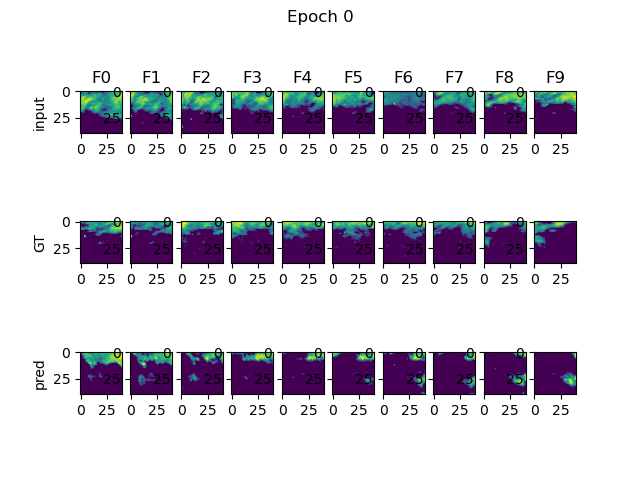
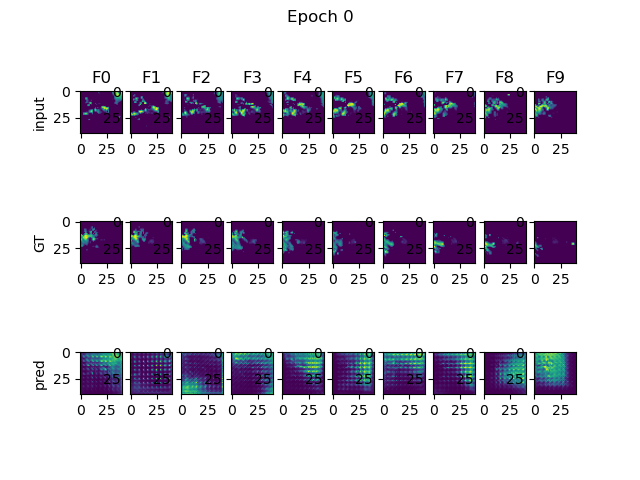
vit discriminator

Changed region(s): [[0.125, 0.7188, 0.9062, 0.8438], [0.125, 0.4375, 0.875, 0.5312], [0.125, 0.1875, 0.9062, 0.25]]

diff --git a/gan/models/simvp_dgan/vit/cct.py b/gan/models/simvp_dgan/vit/cct.py
@@ -1,0 +1,346 @@
+import torch
+import torch.nn as nn
+import torch.nn.functional as F
+
+# helpers
+
+def pair(t):
+    return t if isinstance(t, tuple) else (t, t)
+
+# CCT Models
+
+__all__ = ['cct_2', 'cct_4', 'cct_6', 'cct_7', 'cct_8', 'cct_14', 'cct_16']
+
+
+def cct_2(*args, **kwargs):
+    return _cct(num_layers=2, num_heads=2, mlp_ratio=1, embedding_dim=128,
+                *args, **kwargs)
+
+
+def cct_4(*args, **kwargs):
+    return _cct(num_layers=4, num_heads=2, mlp_ratio=1, embedding_dim=128,
+                *args, **kwargs)
+
+
+def cct_6(*args, **kwargs):
+    return _cct(num_layers=6, num_heads=4, mlp_ratio=2, embedding_dim=256,
+                *args, **kwargs)
+
+
+def cct_7(*args, **kwargs):
+    return _cct(num_layers=7, num_heads=4, mlp_ratio=2, embedding_dim=256,
+                *args, **kwargs)
+
+
+def cct_8(*args, **kwargs):
+    return _cct(num_layers=8, num_heads=4, mlp_ratio=2, embedding_dim=256,
+                *args, **kwargs)
+
+
+def cct_14(*args, **kwargs):
+    return _cct(num_layers=14, num_heads=6, mlp_ratio=3, embedding_dim=384,
+                *args, **kwargs)
+
+
+def cct_16(*args, **kwargs):
+    return _cct(num_layers=16, num_heads=6, mlp_ratio=3, embedding_dim=384,
+                *args, **kwargs)
+
+
+def _cct(num_layers, num_heads, mlp_ratio, embedding_dim,
+         kernel_size=3, stride=None, padding=None,
+         *args, **kwargs):
+    stride = stride if stride is not None else max(1, (kernel_size // 2) - 1)
+    padding = padding if padding is not None else max(1, (kernel_size // 2))
+    return CCT(num_layers=num_layers,
+               num_heads=num_heads,
+               mlp_ratio=mlp_ratio,
+               embedding_dim=embedding_dim,
+               kernel_size=kernel_size,
+               stride=stride,
+               padding=padding,
+               *args, **kwargs)
+
+# modules
+
+class Attention(nn.Module):
+    def __init__(self, dim, num_heads=8, attention_dropout=0.1, projection_dropout=0.1):
+        super().__init__()
+        self.num_heads = num_heads
+        head_dim = dim // self.num_heads
+        self.scale = head_dim ** -0.5
+
+        self.qkv = nn.Linear(dim, dim * 3, bias=False)
+        self.attn_drop = nn.Dropout(attention_dropout)
+        self.proj = nn.Linear(dim, dim)
+        self.proj_drop = nn.Dropout(projection_dropout)
+
+    def forward(self, x):
+        B, N, C = x.shape
+        qkv = self.qkv(x).reshape(B, N, 3, self.num_heads, C // self.num_heads).permute(2, 0, 3, 1, 4)
+        q, k, v = qkv[0], qkv[1], qkv[2]
+
+        attn = (q @ k.transpose(-2, -1)) * self.scale
+        attn = attn.softmax(dim=-1)
+        attn = self.attn_drop(attn)
+
+        x = (attn @ v).transpose(1, 2).reshape(B, N, C)
+        x = self.proj(x)
+        x = self.proj_drop(x)
+        return x
+
+
+class TransformerEncoderLayer(nn.Module):
+    """
+    Inspired by torch.nn.TransformerEncoderLayer and
+    rwightman's timm package.
+    """
+    def __init__(self, d_model, nhead, dim_feedforward=2048, dropout=0.1,
+                 attention_dropout=0.1, drop_path_rate=0.1):
+        super(TransformerEncoderLayer, self).__init__()
+        self.pre_norm = nn.LayerNorm(d_model)
+        self.self_attn = Attention(dim=d_model, num_heads=nhead,
+                                   attention_dropout=attention_dropout, projection_dropout=dropout)
+
+        self.linear1  = nn.Linear(d_model, dim_feedforward)
+        self.dropout1 = nn.Dropout(dropout)
+        self.norm1    = nn.LayerNorm(d_model)
+        self.linear2  = nn.Linear(dim_feedforward, d_model)
+        self.dropout2 = nn.Dropout(dropout)
+
+        self.drop_path = DropPath(drop_path_rate) if drop_path_rate > 0 else nn.Identity()
+
+        self.activation = F.gelu
+
+    def forward(self, src: torch.Tensor, *args, **kwargs) -> torch.Tensor:
+        src = src + self.drop_path(self.self_attn(self.pre_norm(src)))
+        src = self.norm1(src)
+        src2 = self.linear2(self.dropout1(self.activation(self.linear1(src))))
+        src = src + self.drop_path(self.dropout2(src2))
+        return src
+
+
+def drop_path(x, drop_prob: float = 0., training: bool = False):
+    """
+    Obtained from: github.com:rwightman/pytorch-image-models
+    Drop paths (Stochastic Depth) per sample (when applied in main path of residual blocks).
+    This is the same as the DropConnect impl I created for EfficientNet, etc networks, however,
+    the original name is misleading as 'Drop Connect' is a different form of dropout in a separate paper...
+    See discussion: https://github.com/tensorflow/tpu/issues/494#issuecomment-532968956 ... I've opted for
+    changing the layer and argument names to 'drop path' rather than mix DropConnect as a layer name and use
+    'survival rate' as the argument.
+    """
+    if drop_prob == 0. or not training:
+        return x
+    keep_prob = 1 - drop_prob
+    shape = (x.shape[0],) + (1,) * (x.ndim - 1)  # work with diff dim tensors, not just 2D ConvNets
+    random_tensor = keep_prob + torch.rand(shape, dtype=x.dtype, device=x.device)
+    random_tensor.floor_()  # binarize
+    output = x.div(keep_prob) * random_tensor
+    return output
+
+
+class DropPath(nn.Module):
+    """
+    Obtained from: github.com:rwightman/pytorch-image-models
+    Drop paths (Stochastic Depth) per sample  (when applied in main path of residual blocks).
+    """
+    def __init__(self, drop_prob=None):
+        super(DropPath, self).__init__()
+        self.drop_prob = drop_prob
+
+    def forward(self, x):
+        return drop_path(x, self.drop_prob, self.training)
+
+
+class Tokenizer(nn.Module):
+    def __init__(self,
+                 kernel_size, stride, padding,
+                 pooling_kernel_size=3, pooling_stride=2, pooling_padding=1,
+                 n_conv_layers=1,
+                 n_input_channels=3,
+                 n_output_channels=64,
+                 in_planes=64,
+                 activation=None,
+                 max_pool=True,
+                 conv_bias=False):
+        super(Tokenizer, self).__init__()
+
+        n_filter_list = [n_input_channels] + \
+                        [in_planes for _ in range(n_conv_layers - 1)] + \
+                        [n_output_channels]
+
+        self.conv_layers = nn.Sequential(
+            *[nn.Sequential(
+                nn.Conv2d(n_filter_list[i], n_filter_list[i + 1],
+                          kernel_size=(kernel_size, kernel_size),
+                          stride=(stride, stride),
+                          padding=(padding, padding), bias=conv_bias),
+                nn.Identity() if activation is None else activation(),
+                nn.MaxPool2d(kernel_size=pooling_kernel_size,
+                             stride=pooling_stride,
+                             padding=pooling_padding) if max_pool else nn.Identity()
+            )
+                for i in range(n_conv_layers)
+            ])
+
+        self.flattener = nn.Flatten(2, 3)
+        self.apply(self.init_weight)
+
+    def sequence_length(self, n_channels=3, height=224, width=224):
+        return self.forward(torch.zeros((1, n_channels, height, width))).shape[1]
+
+    def forward(self, x):
+        return self.flattener(self.conv_layers(x)).transpose(-2, -1)
+
+    @staticmethod
+    def init_weight(m):
+        if isinstance(m, nn.Conv2d):
+            nn.init.kaiming_normal_(m.weight)
+
+
+class TransformerClassifier(nn.Module):
+    def __init__(self,
+                 seq_pool=True,
+                 embedding_dim=768,
+                 num_layers=10,
+                 num_heads=10,
+                 mlp_ratio=4.0,
+                 num_classes=1000,
+                 dropout_rate=0.1,
+                 attention_dropout=0.1,
+                 stochastic_depth_rate=0.1,
+                 positional_embedding='sine',
+                 sequence_length=None,
+                 *args, **kwargs):
+        super().__init__()
+        positional_embedding = positional_embedding if \
+            positional_embedding in ['sine', 'learnable', 'none'] else 'sine'
+        dim_feedforward = int(embedding_dim * mlp_ratio)
+        self.embedding_dim = embedding_dim
+        self.sequence_length = sequence_length
+        self.seq_pool = seq_pool
+
+        assert sequence_length is not None or positional_embedding == 'none', \
+            f"Positional embedding is set to {positional_embedding} and" \
+            f" the sequence length was not specified."
+
+        if not seq_pool:
+            sequence_length += 1
+            self.class_emb = nn.Parameter(torch.zeros(1, 1, self.embedding_dim),
+                                          requires_grad=True)
+        else:
+            self.attention_pool = nn.Linear(self.embedding_dim, 1)
+
+        if positional_embedding != 'none':
+            if positional_embedding == 'learnable':
+                self.positional_emb = nn.Parameter(torch.zeros(1, sequence_length, embedding_dim),
+                                                   requires_grad=True)
+                nn.init.trunc_normal_(self.positional_emb, std=0.2)
+            else:
+                self.positional_emb = nn.Parameter(self.sinusoidal_embedding(sequence_length, embedding_dim),
+                                                   requires_grad=False)
+        else:
+            self.positional_emb = None
+
+        self.dropout = nn.Dropout(p=dropout_rate)
+        dpr = [x.item() for x in torch.linspace(0, stochastic_depth_rate, num_layers)]
+        self.blocks = nn.ModuleList([
+            TransformerEncoderLayer(d_model=embedding_dim, nhead=num_heads,
+                                    dim_feedforward=dim_feedforward, dropout=dropout_rate,
+                                    attention_dropout=attention_dropout, drop_path_rate=dpr[i])
+            for i in range(num_layers)])
+        self.norm = nn.LayerNorm(embedding_dim)
+
+        self.fc = nn.Linear(embedding_dim, 1)
+        self.apply(self.init_weight)
+
+    def forward(self, x):
+        if self.positional_emb is None and x.size(1) < self.sequence_length:
+            x = F.pad(x, (0, 0, 0, self.n_channels - x.size(1)), mode='constant', value=0)
+
+        if not self.seq_pool:
+            cls_token = self.class_emb.expand(x.shape[0], -1, -1)
+            x = torch.cat((cls_token, x), dim=1)
+
+        if self.positional_emb is not None:
+            x += self.positional_emb
+
+        x = self.dropout(x)
+
+        for blk in self.blocks:
+            x = blk(x)
+        x = self.norm(x)
+
+        if self.seq_pool:
+            x = torch.matmul(F.softmax(self.attention_pool(x), dim=1).transpose(-1, -2), x).squeeze(-2)
+        else:
+            x = x[:, 0]
+
+        x = self.fc(x)
+        return F.sigmoid(x)
+
+    @staticmethod
+    def init_weight(m):
+        if isinstance(m, nn.Linear):
+            nn.init.trunc_normal_(m.weight, std=.02)
+            if isinstance(m, nn.Linear) and m.bias is not None:
+                nn.init.constant_(m.bias, 0)
+        elif isinstance(m, nn.LayerNorm):
+            nn.init.constant_(m.bias, 0)
+            nn.init.constant_(m.weight, 1.0)
+
+    @staticmethod
+    def sinusoidal_embedding(n_channels, dim):
+        pe = torch.FloatTensor([[p / (10000 ** (2 * (i // 2) / dim)) for i in range(dim)]
+                                for p in range(n_channels)])
+        pe[:, 0::2] = torch.sin(pe[:, 0::2])
+        pe[:, 1::2] = torch.cos(pe[:, 1::2])
+        return pe.unsqueeze(0)
+
+
+# CCT Main model
+class CCT(nn.Module):
+    def __init__(self,
+                 img_size=224,
+                 embedding_dim=768,
+                 n_input_channels=20,
+                 n_conv_layers=1,
+                 kernel_size=7,
+                 stride=1,
+                 padding=3,
+                 pooling_kernel_size=3,
+                 pooling_stride=2,
+                 pooling_padding=1,
+                 *args, **kwargs):
+        super(CCT, self).__init__()
+        img_height, img_width = pair(img_size)
+
+        self.tokenizer = Tokenizer(n_input_channels=n_input_channels,
+                                   n_output_channels=embedding_dim,
+                                   kernel_size=kernel_size,
+                                   stride=stride,
+                                   padding=padding,
+                                   pooling_kernel_size=pooling_kernel_size,
+                                   pooling_stride=pooling_stride,
+                                   pooling_padding=pooling_padding,
+                                   max_pool=True,
+                                   activation=nn.ReLU,
+                                   n_conv_layers=n_conv_layers,
+                                   conv_bias=False)
+
+        self.classifier = TransformerClassifier(
+            sequence_length=self.tokenizer.sequence_length(n_channels=n_input_channels,
+                                                           height=img_height,
+                                                           width=img_width),
+            embedding_dim=embedding_dim,
+            seq_pool=True,
+            dropout_rate=0.,
+            attention_dropout=0.1,
+            stochastic_depth=0.1,
+            *args, **kwargs)
+
+    def forward(self, x):
+        x =  x.squeeze(2)
+        x = self.tokenizer(x)
+        return self.classifier(x)

diff --git a/gan/models/simvp_dgan/model.py b/gan/models/simvp_dgan/model.py
@@ -7,6 +7,7 @@ from .resnet.resnet3d import ResNet3DClassifier
 from .resnet.resnetmodel import ResNetFrameDiscriminator, ResNetTemproalDiscriminator
 from .simvp.model import SimVP, SimVPTemporalDiscriminator
 from .axial.axial import AxialDiscriminator
+from .vit.cct import CCT
 
 
 class Model(BaseGanLightning):
@@ -17,6 +18,4 @@ class Model(BaseGanLightning):
         self.temporal_discriminator = ResNetTemproalDiscriminator(
             params, [4, 4, 4, 4], [64, 128, 256, 512]
         )
-        self.second_temporal_discriminator = ResNet3DClassifier(
-            params, block_inplanes=(32, 64, 128, 256)
-        )
+        self.second_temporal_discriminator = CCT(img_size=(40,40), embedding_dim=320, n_input_channels=20)
